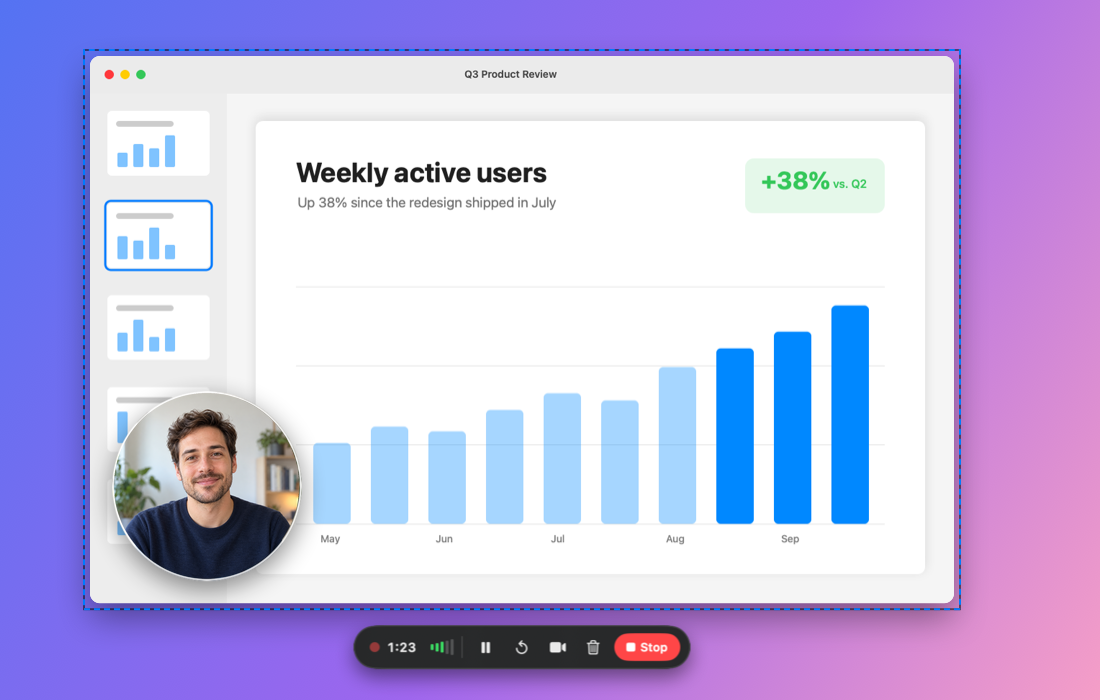
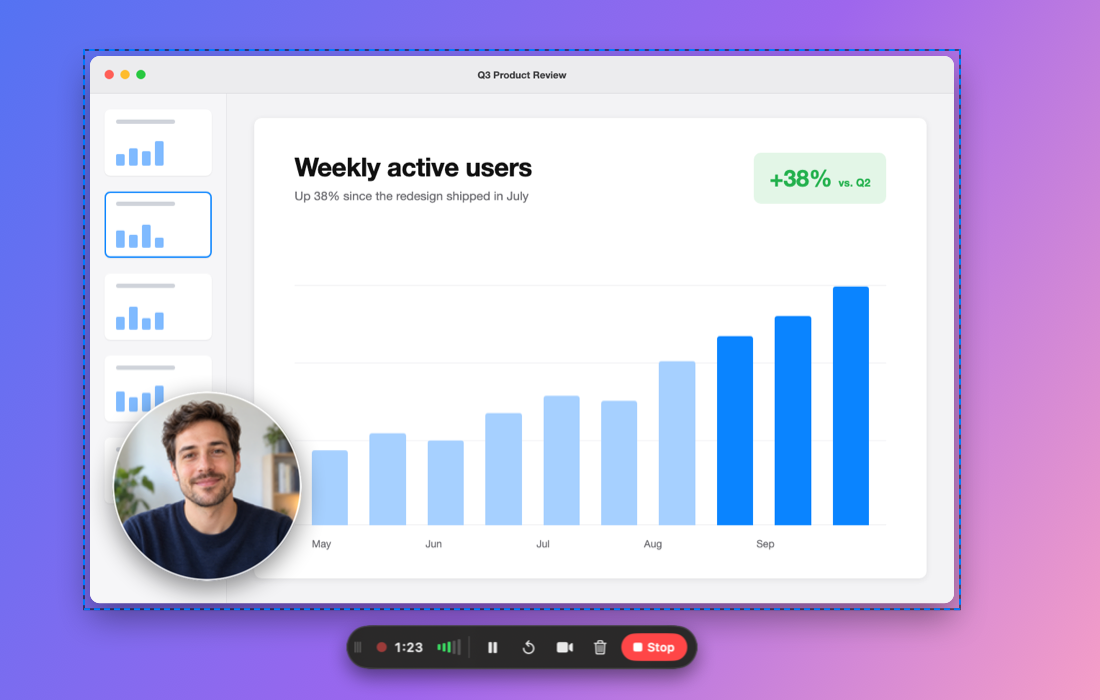
Docs: render meeting, transcript history and Meetings settings screenshots; refresh recording bar

diff --git a/Sources/Glimpse/DocsScenario.swift b/Sources/Glimpse/DocsScenario.swift
@@ -1,12 +1,17 @@
 #if DEBUG
 import AppKit
+import Meetings
 
 /// DEBUG-only: renders the README screenshots in `docs/` from a sample image.
 ///
 ///   scripts/build.sh --debug
 ///   open -n build/debug/Glimpse.app --env GLIMPSE_DOCS_DIR="$PWD/docs" --env GLIMPSE_DOCS_SAMPLE=/path/sample.png
 ///
-/// `--env GLIMPSE_DOCS_ONLY=recording` renders just `recording.png` and `settings.png`.
+/// `--env GLIMPSE_DOCS_ONLY=recording` renders just `recording.png` and `settings.png`; `GLIMPSE_DOCS_ONLY=meetings`
+/// renders just `meeting.png`, `transcripts.png` and `settings-meetings.png`.
+/// `--env GLIMPSE_DOCS_CALL=/path/call.png` is the video-call window behind the meeting pill (default: the sample).
+/// Sample meetings are written to a temporary folder, never to your meeting history or transcripts. Add
+/// `--args -meetingsEnabled YES` so Settings › Meetings shows meetings turned on (not saved).
 /// `--env GLIMPSE_DOCS_AVATAR=/path/face.png` puts that picture in the camera bubble (use an AI-generated face,
 /// not a real person); without it the bubble shows a drawn silhouette.
 ///
@@ -23,6 +28,8 @@ enum DocsScenario {
             if env["GLIMPSE_DOCS_ONLY"] == "recording" {
                 await recording(sample: sample, scale: scale, out: out)
                 await settings(out: out)
+            } else if env["GLIMPSE_DOCS_ONLY"] == "meetings" {
+                await meetings(sample: sample, out: out)
             } else {
                 await run(sample: sample, scale: scale, out: out)
             }
@@ -118,17 +125,72 @@ enum DocsScenario {
 
         // 6. Screen recording: control bar and camera bubble.
         await recording(sample: sample, scale: scale, out: out)
+
+        // 7. Meetings: recording pill over a call, transcription history, Settings › Meetings.
+        await meetings(sample: sample, out: out)
     }
 
-    private static func settings(out: URL) async {
-        SettingsWindowController.show(tab: "recording")
+    private static func settings(tab: String = "recording", out: URL, name: String = "settings.png") async {
+        SettingsWindowController.show(tab: tab)
         await sleep(1)
         if let w = SettingsWindowController.shared?.window {
             w.makeFirstResponder(nil) // no focus ring on the first control
             await sleep(0.3)
-            await captureWindow(w, to: out.appendingPathComponent("settings.png"))
+            await captureWindow(w, to: out.appendingPathComponent(name))
             w.close()
         }
+    }
+
+    /// The meeting recording pill under a video call, the Transcription History window with sample meetings, and
+    /// Settings › Meetings. Meetings data goes to a temporary folder that is deleted afterwards.
+    private static func meetings(sample: CGImage, out: URL) async {
+        let scratch = FileManager.default.temporaryDirectory.appendingPathComponent("glimpse-docs-\(UUID().uuidString)")
+        Meetings.debugUseScratchFolder(scratch)
+        defer { try? FileManager.default.removeItem(at: scratch) }
+        Meetings.debugAddSampleMeetings()
+
+        let call = ProcessInfo.processInfo.environment["GLIMPSE_DOCS_CALL"]
+            .flatMap { ImageUtil.load(url: URL(fileURLWithPath: $0))?.0 } ?? sample
+        let pill = Meetings.debugShowRecordingPill(elapsed: 23 * 60 + 41)
+        await sleep(1.2) // let the level meter move
+        var pillShot: CGImage?
+        if let pill { pillShot = try? await ScreenCapture.captureWindow(CGWindowID(pill.windowNumber)).0 }
+        Meetings.debugHideRecordingPill()
+        if let pillShot, let composite = meetingComposite(call: call, pill: pillShot) {
+            try? ImageExporter.write(composite, scale: 1, to: out.appendingPathComponent("meeting.png"))
+        } else {
+            NSLog("Glimpse docs: could not capture the meeting pill")
+        }
+
+        if let w = Meetings.debugShowHistory() {
+            await sleep(1.2)
+            w.makeFirstResponder(nil)
+            await sleep(0.3)
+            await captureWindow(w, to: out.appendingPathComponent("transcripts.png"))
+            w.close()
+        }
+
+        await settings(tab: "meetings", out: out, name: "settings-meetings.png")
+    }
+
+    /// A video-call window with the meeting recording pill centred below it.
+    private static func meetingComposite(call: CGImage, pill: CGImage) -> CGImage? {
+        let size = CGSize(width: 1100, height: 700)
+        guard let ctx = context(size) else { return nil }
+        drawWallpaper(ctx, size)
+        let windowScale = min(0.72, 900 / CGFloat(call.width))
+        let w = CGFloat(call.width) * windowScale
+        drawWindow(call, at: CGPoint(x: (size.width - w) / 2, y: 40), scale: windowScale, in: ctx, canvasHeight: size.height)
+        // The pill sits where Glimpse puts it: bottom centre, above the Dock. Captures are 2× on Retina.
+        let pillScale: CGFloat = (NSScreen.main?.backingScaleFactor ?? 2) > 1 ? 0.5 : 1
+        let r = CGRect(x: (size.width - CGFloat(pill.width) * pillScale) / 2, y: 30,
+                       width: CGFloat(pill.width) * pillScale, height: CGFloat(pill.height) * pillScale)
+        ctx.saveGState()
+        ctx.setShadow(offset: CGSize(width: 0, height: -8), blur: 20, color: CGColor(gray: 0, alpha: 0.45))
+        ctx.interpolationQuality = .high
+        ctx.draw(pill, in: r)
+        ctx.restoreGState()
+        return ctx.makeImage()
     }
 
     /// The recording control bar and a camera bubble (a still picture, not a real camera) over the fake desktop.

diff --git a/Sources/Meetings/DocsSupport.swift b/Sources/Meetings/DocsSupport.swift
@@ -1,0 +1,98 @@
+#if DEBUG
+import AppKit
+
+/// DEBUG-only hooks for Glimpse's DocsScenario (the README screenshots). Call `debugUseScratchFolder` first: history,
+/// settings and voice profiles then live in that folder, so the user's meetings are never read or written.
+extension Meetings {
+    public static func debugUseScratchFolder(_ url: URL) {
+        Paths.debugApplicationSupport = url
+    }
+
+    /// Shows the meeting recording pill as if `elapsed` seconds had been recorded, with a moving level meter.
+    /// Returns its window.
+    public static func debugShowRecordingPill(elapsed: TimeInterval, muted: Bool = false) -> NSWindow? {
+        let indicator = RecordingIndicator.shared
+        indicator.show(startedAt: Date().addingTimeInterval(-elapsed), synthetic: true, isMuted: muted,
+                       onMuteToggle: {}, onPauseToggle: {}, onStop: {})
+        return indicator.debugWindow
+    }
+
+    public static func debugHideRecordingPill() { RecordingIndicator.shared.hide() }
+
+    /// Shows the "Microphone muted" badge (without muting anything). Returns its window.
+    public static func debugShowMuteBadge() -> NSWindow? {
+        MuteBadge.shared.show {}
+        return MuteBadge.shared.debugWindow
+    }
+
+    public static func debugHideMuteBadge() { MuteBadge.shared.hide() }
+
+    /// Fills the scratch folder with sample meetings (fictional people), sample settings and voice profiles.
+    public static func debugAddSampleMeetings() {
+        guard let root = Paths.debugApplicationSupport else { return }
+        let files = root.appendingPathComponent("samples", isDirectory: true)
+        try? FileManager.default.createDirectory(at: files, withIntermediateDirectories: true)
+
+        var data = AppSettings.shared.data
+        data.primaryUserNames = ["Alex Morgan"]
+        data.primaryUserHasProfile = true
+        data.autoDetectionEnabled = true
+        data.calendars = ["primary"]
+        AppSettings.shared.data = data
+
+        let voices = VoiceProfileStore(directory: Paths.voiceProfiles)
+        try? FileManager.default.createDirectory(at: Paths.voiceProfiles, withIntermediateDirectories: true)
+        for name in ["Alex Morgan", "Ava Thompson", "Liam Carter", "Sofia Nguyen"] {
+            let profile = VoiceProfile(name: name, embedding: (0..<16).map { _ in Float.random(in: -1...1) })
+            try? JSONEncoder().encode(profile).write(to: voices.fileURL(for: name))
+        }
+
+        let cal = Calendar.current
+        func at(daysAgo: Int, _ hour: Int, _ minute: Int) -> Date {
+            let day = cal.date(byAdding: .day, value: -daysAgo, to: Date()) ?? Date()
+            return cal.date(bySettingHour: hour, minute: minute, second: 0, of: day) ?? day
+        }
+        struct Sample {
+            var title: String, start: Date, minutes: Double, attendees: [String], segments: Int, learned: [String] = []
+        }
+        // Oldest first, so the newest (selected) one has the highest id.
+        let samples = [
+            Sample(title: "Sprint Planning", start: at(daysAgo: 6, 9, 30), minutes: 52,
+                   attendees: ["Ava Thompson", "Liam Carter", "Sofia Nguyen", "Noah Patel", "Mia Rossi"], segments: 341),
+            Sample(title: "Northwind Customer Call", start: at(daysAgo: 3, 16, 0), minutes: 28,
+                   attendees: ["Noah Patel", "Liam Carter"], segments: 164),
+            Sample(title: "Design Review: Onboarding", start: at(daysAgo: 2, 14, 0), minutes: 35,
+                   attendees: ["Mia Rossi", "Ava Thompson"], segments: 198),
+            Sample(title: "1:1 Ava / Alex", start: at(daysAgo: 1, 11, 0), minutes: 24,
+                   attendees: ["Ava Thompson"], segments: 121),
+            Sample(title: "Product Weekly Sync", start: at(daysAgo: 0, 10, 0), minutes: 41.3,
+                   attendees: ["Ava Thompson", "Liam Carter", "Sofia Nguyen"], segments: 286, learned: ["Sofia Nguyen"]),
+        ]
+        let store = TranscriptionHistoryStore.shared
+        for (i, s) in samples.enumerated() {
+            let meeting = Meeting(id: "docs-\(i)", title: s.title, start: s.start, end: s.start.addingTimeInterval(s.minutes * 60),
+                                  attendees: s.attendees, meetingURL: nil, type: .unknown, fromCalendar: true)
+            let wav = files.appendingPathComponent("meeting-\(i).wav")
+            let md = files.appendingPathComponent("meeting-\(i).md")
+            try? Data().write(to: wav)
+            try? "# \(s.title)\n".write(to: md, atomically: true, encoding: .utf8)
+            let id = store.startRecord(meeting: meeting, wavPath: wav.path)
+            let transcription = s.minutes * 0.93, diarization = s.minutes * 0.27
+            store.complete(id, markdownPath: md.path, segmentCount: s.segments, duration: s.minutes * 60,
+                           timings: PipelineTimings(transcription: transcription, diarization: diarization, fileSaving: 0.2,
+                                                    totalEndToEnd: transcription + diarization + 0.2 + 1.1),
+                           createdEmbeddings: s.learned)
+        }
+    }
+
+    /// Opens the Transcription History window and returns it.
+    public static func debugShowHistory() -> NSWindow? {
+        WindowManager.shared.showHistory()
+        return WindowManager.shared.debugHistoryWindow
+    }
+}
+
+extension Paths {
+    nonisolated(unsafe) static var debugApplicationSupport: URL?
+}
+#endif

diff --git a/Sources/Meetings/Paths.swift b/Sources/Meetings/Paths.swift
@@ -21,6 +21,12 @@ enum Paths {
 
     /// ~/Library/Application Support/Glimpse/Meetings: history, settings, recordings, voices, calendar sign-in.
     static var applicationSupport: URL {
+        #if DEBUG
+        if let dir = debugApplicationSupport {
+            try? FileManager.default.createDirectory(at: dir, withIntermediateDirectories: true)
+            return dir
+        }
+        #endif
         let base = FileManager.default.urls(for: .applicationSupportDirectory, in: .userDomainMask)[0]
         let dir = base.appendingPathComponent("Glimpse/Meetings", isDirectory: true)
         try? FileManager.default.createDirectory(at: dir, withIntermediateDirectories: true)
@@ -58,7 +64,15 @@ enum Paths {
     static var calendarToken: URL { applicationSupport.appendingPathComponent("google-token.json") }
 
     /// `~`-abbreviated path for display, so UI and logs don't show the user's home directory.
-    static func display(_ url: URL) -> String { (url.path as NSString).abbreviatingWithTildeInPath }
+    static func display(_ url: URL) -> String {
+        #if DEBUG
+        // Docs screenshots show the usual location, not the scratch folder standing in for it.
+        if let scratch = debugApplicationSupport?.path, url.path.hasPrefix(scratch) {
+            return "~/Library/Application Support/Glimpse/Meetings" + url.path.dropFirst(scratch.count)
+        }
+        #endif
+        return (url.path as NSString).abbreviatingWithTildeInPath
+    }
 
     /// Expand a leading `~`.
     static func expand(_ path: String) -> URL {

diff --git a/Sources/Glimpse/main.swift b/Sources/Glimpse/main.swift
@@ -5,7 +5,13 @@ if CommandLine.arguments.dropFirst().first == "mcp" { MCPBridge.run() }
 
 // One copy at a time: a second one (another build, or the executable run directly, e.g. by an agent configured
 // without `mcp`) would fight over the global shortcuts and the agent socket.
-if let id = Bundle.main.bundleIdentifier,
+#if DEBUG
+// The README screenshot renderer (DocsScenario) only draws windows and quits, so it can run beside the installed app.
+let allowSecondCopy = ProcessInfo.processInfo.environment["GLIMPSE_DOCS_DIR"] != nil
+#else
+let allowSecondCopy = false
+#endif
+if !allowSecondCopy, let id = Bundle.main.bundleIdentifier,
    NSRunningApplication.runningApplications(withBundleIdentifier: id).contains(where: { $0.processIdentifier != getpid() }) {
     FileHandle.standardError.write(Data("Glimpse is already running. AI agents should run: \(CommandLine.arguments[0]) mcp\n".utf8))
     exit(0)

diff --git a/Sources/Meetings/UI/RecordingIndicator.swift b/Sources/Meetings/UI/RecordingIndicator.swift
@@ -110,6 +110,10 @@ final class MuteBadge {
         panel?.orderOut(nil)
         panel = nil
     }
+
+    #if DEBUG
+    var debugWindow: NSWindow? { panel }
+    #endif
 }
 
 /// Recording pill: bottom-center of the active screen above the Dock.
@@ -129,6 +133,10 @@ final class RecordingIndicator: NSObject, NSWindowDelegate {
     private var pausedAt: Date?
 
     var isVisible: Bool { panel != nil }
+
+    #if DEBUG
+    var debugWindow: NSWindow? { panel }
+    #endif
 
     /// - Parameters:
     ///   - synthetic: animate a fake waveform (dev instance)

diff --git a/Sources/Meetings/WindowManager.swift b/Sources/Meetings/WindowManager.swift
@@ -16,6 +16,10 @@ final class WindowManager: NSObject, NSWindowDelegate {
         present(historyWindow)
     }
 
+    #if DEBUG
+    var debugHistoryWindow: NSWindow? { historyWindow }
+    #endif
+
     func closeAll() {
         historyWindow?.close()
     }

diff --git a/README.md b/README.md
@@ -67,6 +67,8 @@ Glimpse can record your video calls and turn them into a transcript, all on this
   event happening now. Nothing is recorded until you say so, unless you turn on **Start recording automatically**.
 - **Start Recording** from the Meetings submenu at any time, or **Join & Record** an upcoming calendar meeting.
   When a call is detected during a calendar meeting, a card offers to record it (once per meeting).
+![Recording a call with the meeting pill](docs/meeting.png)
+
 - **Records both sides**: your microphone on one channel and the call's system audio on the other, as a WAV file.
   A floating pill, built like the screen recording bar, shows the level and elapsed time with mute, pause and stop;
   drag it wherever it's out of the way. `⌃⌥M` mutes your microphone system-wide (the call app still shows you
@@ -86,6 +88,12 @@ Glimpse can record your video calls and turn them into a transcript, all on this
   recording to a different calendar event, or delete it (recording and transcript go to the Trash).
 - **Google Calendar** is optional. Sign in once (read-only access, through your own OAuth client file) and Glimpse
   titles recordings after the event, lists attendees, and shows the next 24 hours of meetings in the menu.
+
+![Transcription History](docs/transcripts.png)
+
+<p align="center">
+  <img src="docs/settings-meetings.png" width="420" alt="Settings › Meetings">
+</p>
 
 **Privacy.** Recording and transcription happen on your Mac: audio, transcripts, voice profiles and the calendar
 token stay in your home folder, and the only network traffic is the first-use download of the speech, speaker and
@@ -334,6 +342,13 @@ also set `GLIMPSE_SIGN_IDENTITY` to any signing identity.
   Add `--env GLIMPSE_DOCS_ONLY=recording` to render only `recording.png` and `settings.png`. The camera bubble
   shows `--env GLIMPSE_DOCS_AVATAR=/path/face.png` (an AI-generated face, not a real person) or a drawn
   silhouette, never your camera.
+
+  `--env GLIMPSE_DOCS_ONLY=meetings` renders only `meeting.png` (the meeting pill under a video call: pass the
+  call window as `--env GLIMPSE_DOCS_CALL=/path/call.png`, otherwise the sample is used), `transcripts.png`
+  (Transcription History with sample meetings of fictional people) and `settings-meetings.png`. The sample
+  meetings, settings and voice profiles go to a temporary folder that's deleted afterwards; your meeting history
+  and transcripts are never read or written. Add `--args -meetingsEnabled YES` to show meetings turned on without
+  saving it. The renderer runs beside an installed Glimpse.
 
 ## Releasing
 
